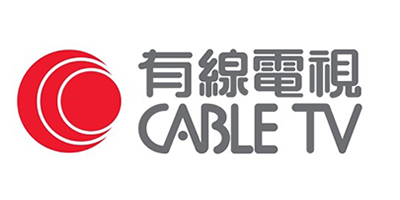
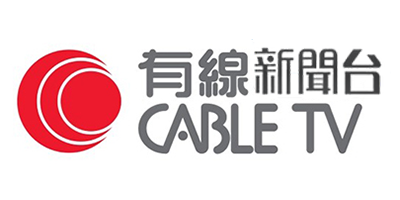
Add files via upload

Changed region(s): [[0.63, 0.24, 0.96, 0.51]]

diff --git a/index.html b/index.html
@@ -91,19 +91,42 @@ ul{padding:0 0 5px 5px;list-style:none}li{line-height:16px}
 				<div class="w3-row-padding">
 					<h5 style="color:grey">&nbsp;&nbsp;<b>Live TV</b></h5>
 					<div class="w3-third w3-container">
-						<a href="https://playtimeshift-live.ifeng.com/timeshift/live/06OLEEWQKN4/timeshift.m3u8?txKbps=702&delay=1" target="_blank"><img src="images/fhzx.png" alt="Img" style="width:100%; height:100%" class="w3-hover-opacity"></a>
-						<!-- <iframe style="width:100%" class="w3-hover-opacity" src="https://playtimeshift-live.ifeng.com/timeshift/live/06OLEGEGM4G/timeshift.m3u8?txKbps=702&delay=1" title="Chillhop Study" frameborder="0" allow="accelerometer; autoplay; clipboard-write; encrypted-media; gyroscope; picture-in-picture" allowfullscreen></iframe> -->
+						<a href="https://playtimeshift-live.ifeng.com/timeshift/live/06OLEGEGM4G/timeshift.m3u8?txKbps=702&delay=1" target="_blank"><img src="images/fhws.png" alt="凤凰卫视" style="width:100%; height:100%" class="w3-hover-opacity"></a>
 					</div>
 					<div class="w3-third w3-container">
-						<a href="http://61.10.2.140:80/live_freedirect/freehd209_h.live/chunklist_w135209556.m3u8" target="_blank"><img src="images/yxxw.png" alt="Img" style="width:100%; height:100%" class="w3-hover-opacity"></a>
-						<!-- <iframe style="width:100%" class="w3-hover-opacity" src="https://www.youtube.com/embed/5yx6BWlEVcY" title="Chillhop Resting" frameborder="0" allow="accelerometer; autoplay; clipboard-write; encrypted-media; gyroscope; picture-in-picture" allowfullscreen></iframe> -->
+						<a href="https://playtimeshift-live.ifeng.com/timeshift/live/06OLEEWQKN4/timeshift.m3u8?txKbps=702&delay=1" target="_blank"><img src="images/fhzx.png" alt="凤凰咨询台" style="width:100%; height:100%" class="w3-hover-opacity"></a>
 					</div>
 					<div class="w3-third w3-container">
-						<a href="https://pull-l3-cny.douyincdn.com/live/YesLiveTV-127406a1-8537-4fe6-8b05-c80fac079141.m3u8" target="_blank"><img src="images/tvbnews.png" alt="Img" style="width:100%; height:100%" class="w3-hover-opacity"></a>
-						<!-- <iframe style="width:100%" class="w3-hover-opacity" src="https://www.youtube.com/embed/e3L1PIY1pN8" title="Lofi Cafe" frameborder="0" allow="accelerometer; autoplay; clipboard-write; encrypted-media; gyroscope; picture-in-picture" allowfullscreen></iframe> -->
+						<a href="http://61.10.2.140:80/live_freedirect/freehd209_h.live/chunklist_w135209556.m3u8" target="_blank"><img src="images/yxxw.png" alt="有线新闻" style="width:100%; height:100%" class="w3-hover-opacity"></a>
+					</div>
+				</div>
+
+				<div class="w3-row-padding">
+					<!-- <h5 style="color:grey">&nbsp;&nbsp;<b>Live TV</b></h5> -->
+					<div class="w3-third w3-container">
+						<a href="https://pull-l3-cny.douyincdn.com/live/YesLiveTV-127406a1-8537-4fe6-8b05-c80fac079141.m3u8" target="_blank"><img src="images/tvbnews.png" alt="无线新闻" style="width:100%; height:100%" class="w3-hover-opacity"></a>
+					</div>
+					<div class="w3-third w3-container">
+						<a href="https://pull-l3-cny.douyincdn.com/live/YesLiveTV-a16bbd71-e2d4-4ec9-86cd-5a295fa02779.m3u8" target="_blank"><img src="images/tvbfs.png" alt="无线财经台" style="width:100%; height:100%" class="w3-hover-opacity"></a>
+					</div>
+					<div class="w3-third w3-container">
+						<a href="http://media.fantv.hk/m3u8/archive/channel2_stream1.m3u8" target="_blank"><img src="images/kds.png" alt="香港开电视" style="width:100%; height:100%" class="w3-hover-opacity"></a>
 					</div>
 				</div>
 				
+				<div class="w3-row-padding">
+					<!-- <h5 style="color:grey">&nbsp;&nbsp;<b>Live TV</b></h5> -->
+					<div class="w3-third w3-container">
+						<a href="http://rthktv31-live.akamaized.net/hls/live/2036818/RTHKTV31/master.m3u8" target="_blank"><img src="images/gt31.png" alt="港台电视31" style="width:100%; height:100%" class="w3-hover-opacity"></a>
+					</div>
+					<div class="w3-third w3-container">
+						<a href="http://rthktv32-live.akamaized.net/hls/live/2036819/RTHKTV32/master.m3u8" target="_blank"><img src="images/gt32.png" alt="港台电视32" style="width:100%; height:100%" class="w3-hover-opacity"></a>
+					</div>
+					<div class="w3-third w3-container">
+						<a href="https://www.bloomberg.com/media-manifest/streams/us.m3u8" target="_blank"><img src="images/bloomberg.png" alt="彭博财经" style="width:100%; height:100%" class="w3-hover-opacity"></a>
+					</div>
+				</div>
+
 		</div> <!-- End right page content -->
 		<br>
 	</div> <!-- End !PAGE CONTENT! -->
